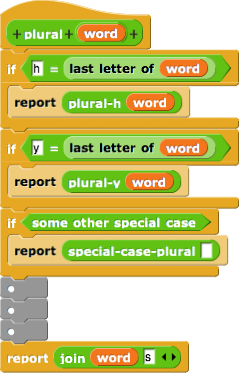
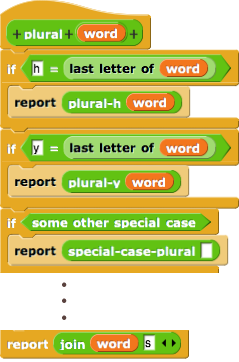
U2

diff --git a/cur/programming/2-conditionals-abstraction-testing/1-conditionals/5-plurals2.html b/cur/programming/2-conditionals-abstraction-testing/1-conditionals/5-plurals2.html
@@ -11,13 +11,9 @@
         
         <div class="todo">
             <ul>
-                <li>JK: Again, I would combine all the suffix problems together, or at least call this page "suffix continued" or something. Also, why is this program called "suffix" rather than "pluralizer" or something?</li>
-                <li>JK: Is "specialist" block a real term? For some reason, I'm imagining that I've heard the term "helper block" before too.</li>
-                <!-- <li>JK: Overall, I found this page confusing.#4-6 seem like a completely different direction, and then on top of that, lists are introduced. By the way, OR is also introduced here, which seems strange. I might ONLY include version 2 of the vowel thing here, then later refer back to this problem when talking about OR. Maybe the list stuff can be in take it further. In fact, perhaps the "is a vowel?" can go on the previous page (after the traffic lights), and then this project can get students to use their vowel block here.</li>
-                <li>JK: At the very least, I would get rid of <img src="/bjc-r/img/2-conditionals-abstraction-testing/list-of-vowels-contains-randomly-picked-letter-of-pencil_666x39.png" alt="list of vowels contains randomly picked letter of pencil"><img src="/bjc-r/img/2-conditionals-abstraction-testing/item-pick-random-1-to-7-of-list-I-you-he-she-etc_605x33.png" alt="item pick random element from list of I you he she it we they">. They'll see lists in Unit 3.</li> -->
                 <li>GitHub Feedback: The file names need to be consistent. We did plural in Unit 3.</li>
             </ul>
-        </div>
+    </div>
         <p>In this lab, you will continue to improve your <code>plural</code> block so that it works correctly with more words. If you do not already have it, please reload it. (The suggested file name was <code>U2Lab1-Plural</code>.)  You will also need your list of words that <code>plural</code> did not pluralize correctly.</p>
            
     
@@ -30,8 +26,9 @@
                     <p>Test <img src="/bjc-r/img/2-conditionals-abstraction-testing/plural_h.png" alt="plural"> with a variety of words to make sure it works the way you want.</p>
                 </li>
                 <div class="takeNote">
-                	<p><strong>Abstraction: </strong> English is complicated and has a lot of special cases. To pluralize some nouns, you add  <em>s</em>; to some  you add  <em>es</em>;  nouns like <em>calf</em> and <em>fly</em> become <em>calves</em> and <em>flies</em>, changing their final letters before adding <em>es</em>. And there are other special cases to handle. For a programming task this complex, it  is (generally) best to break it into parts, handle each part separately with its own procedure (its own block), and then have the &quot;top-level&quot; block—in this case, <code>plural</code>, itself—show only the outline. That is, instead of coding every little detail directly in <code>plural</code>, it is cleaner and clearer to build a block that looks something like this, with each special case handled by block that specializes in that case only.</p>
-                    <div class="comment">I think we should use a some with "..." written with text. This looks like "&middot;" is a block that we just don't know.</div>
+                	<p><strong>Abstraction: </strong> English is complicated and has a lot of special cases. To pluralize some nouns, you add  <em>s</em>. To some  you add  <em>es</em>. Nouns like <em>calf</em> and <em>fly</em> become <em>calves</em> and <em>flies</em>, changing their final letters before adding <em>es</em>. And there are other special cases to handle. </p>
+                	<p>For a programming task this complex, it is best to break it into parts. Instead of coding every little detail directly in <code>plural</code>, it is cleaner and clearer to handle each special case separately with a  block that specializes in that case only. Then let the &quot;top-level&quot; block—<code>plural</code>—show only the outline.</p>
+                    
                     <p><img src="/bjc-r/img/2-conditionals-abstraction-testing/plural-abstract-definition.png" alt="abstract definition of plural: if h = last letter of word, report h-case plural; if y = last letter of word, report y-case plural; if some other case, use a block that specializes in that case; etc.; else report join word s"></p>
                     <p>Showing the <em>structure</em> of the method—just the overall strategy—in the &quot;top-level&quot; block and relegating the details to  separate blocks is one part of an important computer science idea called <strong>abstraction</strong>. This aspect of abstraction is  extremely helpful in keeping your code clear and helping you debug it. </p>
                 </div>
@@ -43,7 +40,7 @@
                <p>As before, this specialist can make mistakes if it is asked to do a job that isn't its  specialty <img src="/bjc-r/img/2-conditionals-abstraction-testing/plural_y-mouse-with-(wrong)result.png" alt="plural_y-mouse-with-(wrong)result">. </p>
                <p><code>plural</code> will take care to give it only the cases it knows how to handle correctly.</p>
 			</ol>
-		</div>
+</div>
           
         <div class="takeItFurther"><a name="further" class="anchor">&nbsp;</a>
             <div> 
